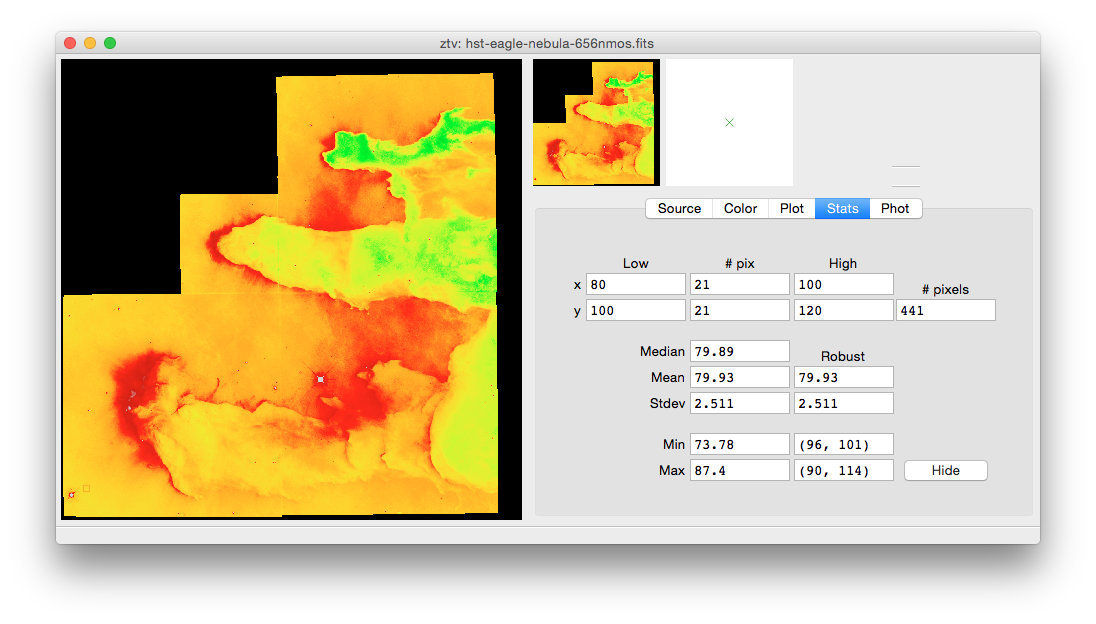
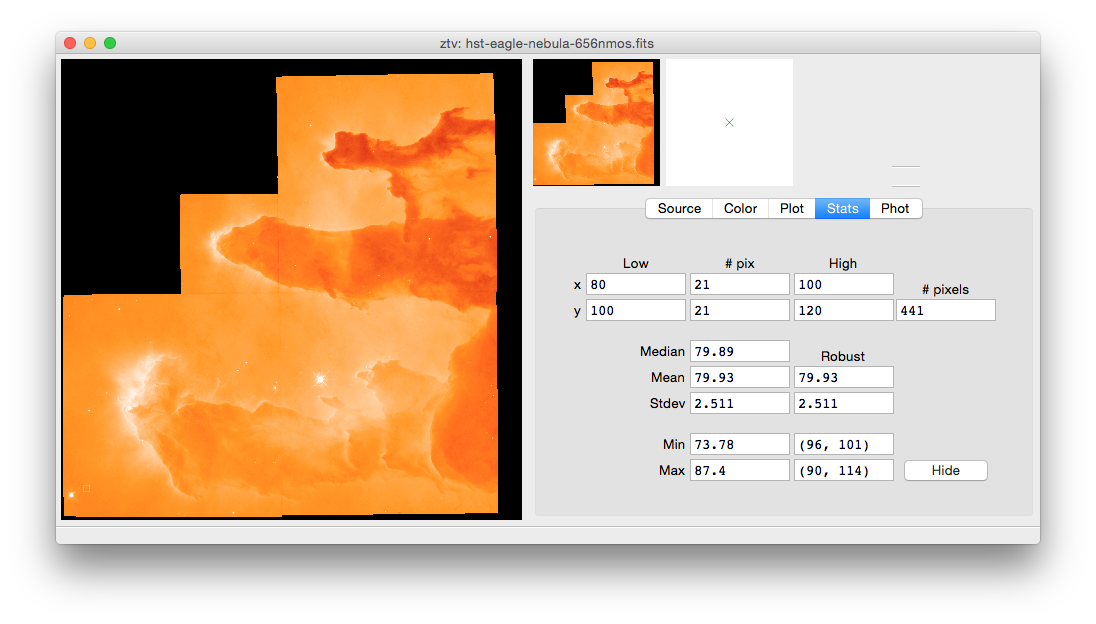
README is either ready or close to ready or release, including bunch of better screenshots

Changed region(s): [[0.031, 0.0913, 0.6204, 0.8526]]

diff --git a/README.md b/README.md
@@ -7,7 +7,7 @@
 
 *ztv* is intended for real-time display and analysis. *ztv* is not intended to produce publication quality figures. 
 
-*ztv* comes with a number of built-in control panels (see *Additional Screenshots* section below), for:
+*ztv* comes with a number of built-in control panels, for:
 - selecting input source (FITS file, auto-reload from FITS file, etc)
 - selecting a frame to subtract (e.g. sky or dark) and a flat field frame to divide by
 - setting colormap, stretch, and lower/upper limits
@@ -34,11 +34,15 @@ To load an image in a numpy array:
 
 ![](screenshots/random_noise1.png)
 
-You can now look at your data, manipulate display parameters, etc all using the gui elements. But, you can also access most of these via the command line api, e.g.: To switch amongst control panels:
+You can now look at your data, manipulate display parameters, etc all using the gui elements. All of these elements are accessible through the tabbed control panels. You can also switch amongst the control panel tabs by `cmd-alt-#` where *#* is the number of the panel, starting from 1. Or, by `cmd-[` and `cmd-]` to move left/right amongst the tabs. You can even switch tabs from the command line api, e.g.:
 
     z.control_panel('Color')
 
 ![](screenshots/random_noise2.png)
+
+To change cursor mode, press `cmd-#` where *#* is the number shown in the pop-up menu that's available by right-clicking in the primary image area:
+
+![](screenshots/popup_menu.png)
 
 To manipulate display parameters:
 
@@ -57,7 +61,7 @@ To set up a statistics box and see the GUI output (note that output is also retu
 
 ![](screenshots/random_noise4.png)
 
-There's a lot more you can do from the command line if you explore *ztv*, especially in an exploration-friendly environment like [ipython](http://ipython.org/). And, anything you can do from the command line can be done from the GUI.
+There's a lot more you can do from the command line if you play with *ztv*, especially in an exploration-friendly environment like [ipython](http://ipython.org/). And, anything you can do from the command line can be done from the GUI.
 
 Download an iconic FITS image from the web and display it:
 
@@ -71,15 +75,16 @@ Download an iconic FITS image from the web and display it:
     open(local_filename, 'w').write(zip.open(zip_filename).read())
     z.load(local_filename)
     z.scaling('Log')
-    z.cmap('spectral')
+    z.cmap('gist-heat')
     z.minmax(0, 500)
 
 ![](screenshots/eagle1.png)
 
 We can even do a little aperture photometry while we're here:
 
-    z.xy_center(624, 524)
     z.cmap('gray')
+    z.xy_center(624, 524)
+    z.zoom(4)
     z.minmax(0, 1000)
     z.scaling('Asinh')
     z.control_panel('phot')
@@ -99,16 +104,20 @@ One of the motivating use cases for *ztv* was real-time quick-look of incoming i
 
 ![](screenshots/faker1.png)
 
-Additional Screenshots
-======================
+Our fake example data looks a lot better when we subtract the sky and divide the flat field (someone needs to blow the dust off that fake dewar window...):
 
+    z.control_panel('Source')
+    z.sky_frame(True)
+    z.flat_frame(True)
+
+![](screenshots/faker2.png)
 
 Installation and Dependencies
 =============================
 
 *ztv* uses several packages, including [wxPython](http://wxpython.org), [astropy](http://www.astropy.org). These should be automatically installed if you install *ztv* with:
 
-    pip install ztv
+    pip install ztv 
 
 Background
 ==========
@@ -127,6 +136,7 @@ Other Image Viewers You Should Check Out
 - If you're using IDL, check out [ATV](http://www.physics.uci.edu/~barth/atv/) of course!
 - [SAOImage DS9](http://ds9.si.edu/site/Home.html)
 - [Aladin Desktop Sky Atlas](http://aladin.u-strasbg.fr) (not primarily an image viewer, but can open FITS files and overlay catalogs and other images nicely)
+- [ginga](http://ejeschke.github.io/ginga/)
 
 (If your favorite isn't on this list, please email hroe@hroe.me to get it added.)
 
